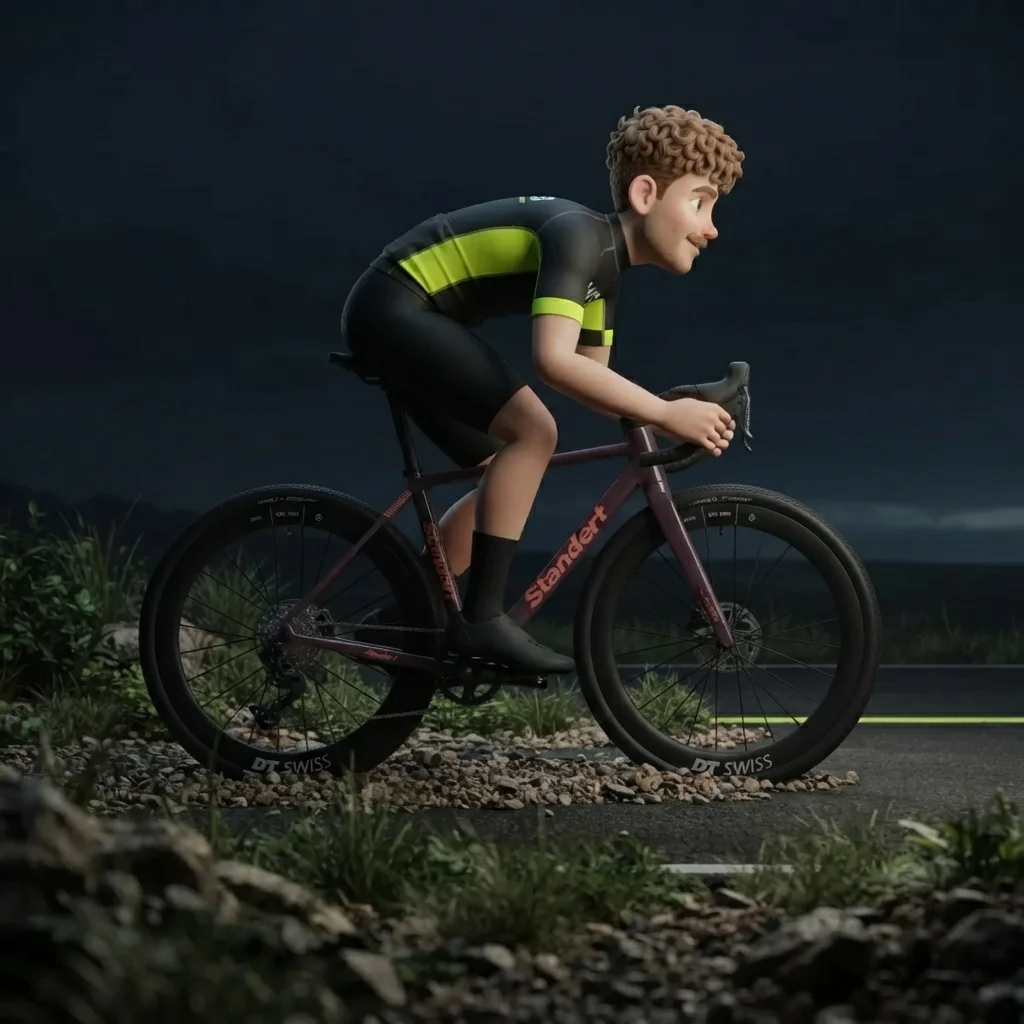
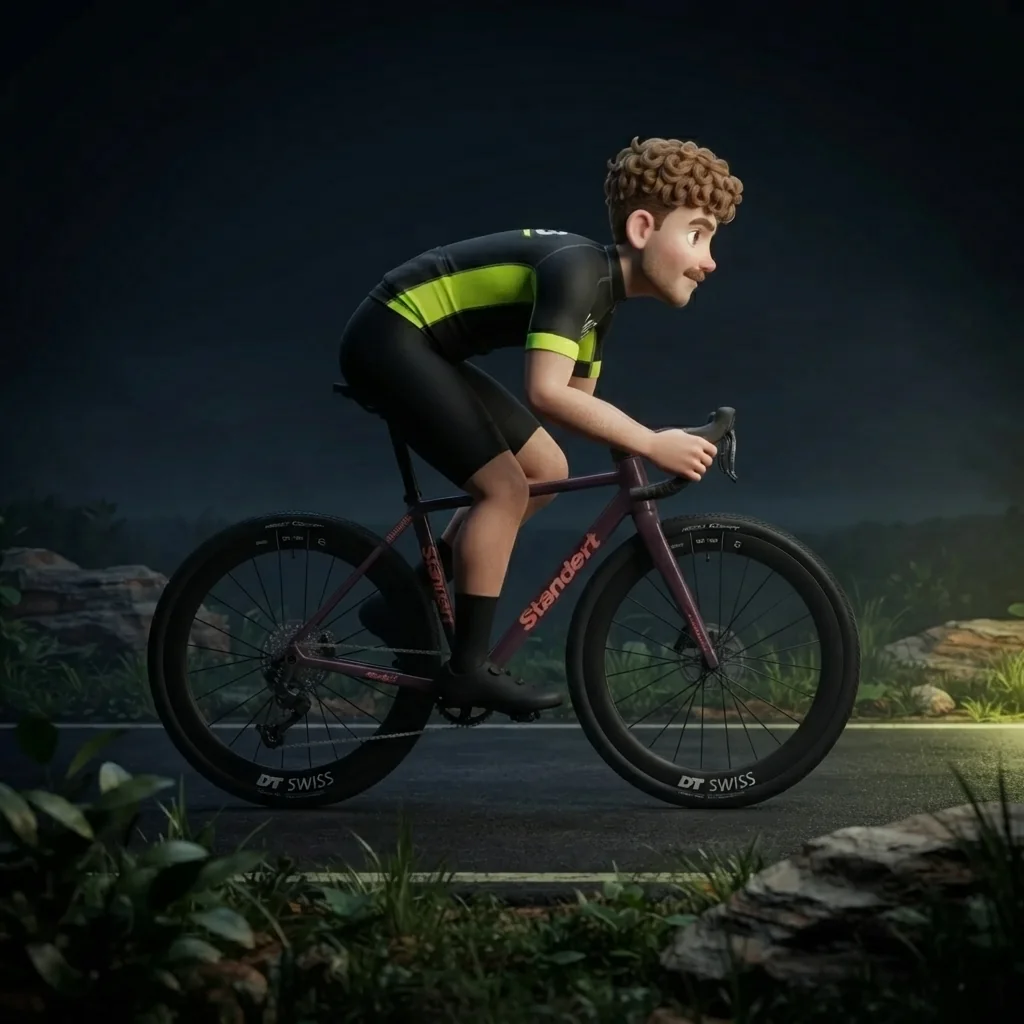
fix(studio): the pose outranks the references, which stand still
Rendering the day states caught the reference images leaking something they
should not: both show a figure standing, and that stillness was bleeding into
the action. `_POSE["hard"]` asks for out of the saddle, hands in the drops,
torso low and driving, and the render settled the rider back onto the hoods
sitting upright — recognisably the right person on the right bike, doing the
wrong thing.

That matters more than it looks. Today's hero communicates the day through
posture alone; if every pose relaxes toward the reference's neutral stance,
the rest day and the interval day converge and the screen stops saying
anything.

The mandate now splits the two cleanly: the references govern WHO and WHAT —
face, build, frame, decals — and the action governs HOW THEY ARE MOVING, taken
literally and at full commitment. The re-render is properly low and driving,
and rest stays slumped over the bars with eyes closed.

diff --git a/backend/app/services/cyclr_studio.py b/backend/app/services/cyclr_studio.py
@@ -687,7 +687,13 @@ _REFERENCE_MANDATE = (
     "new pose. The SECOND image is the rider's own bicycle: reproduce that exact bike — the same "
     "frame shape and colour, the same decals and lettering, the same wheels, rim depth, tyres and "
     "components. Do NOT redesign either, do NOT re-letter the frame, and do NOT drift toward a "
-    "more realistic or a more generic figure. Only the POSE and the SURROUNDINGS are new."
+    "more realistic or a more generic figure. Only the POSE and the SURROUNDINGS are new.\n\n"
+    "THE POSE IS THE ONE EXCEPTION, AND IT OUTRANKS THE REFERENCES. Both of them show a figure "
+    "standing still, and that stillness must not leak into this render. The posture is whatever "
+    "the action above describes, taken literally and at full commitment: if it says out of the "
+    "saddle with hands in the drops and the torso low and driving, draw exactly that — do not "
+    "settle the rider back onto the hoods or sit them upright because the reference figure is. "
+    "The references govern WHO and WHAT; the action governs HOW THEY ARE MOVING."
 )
 
 
